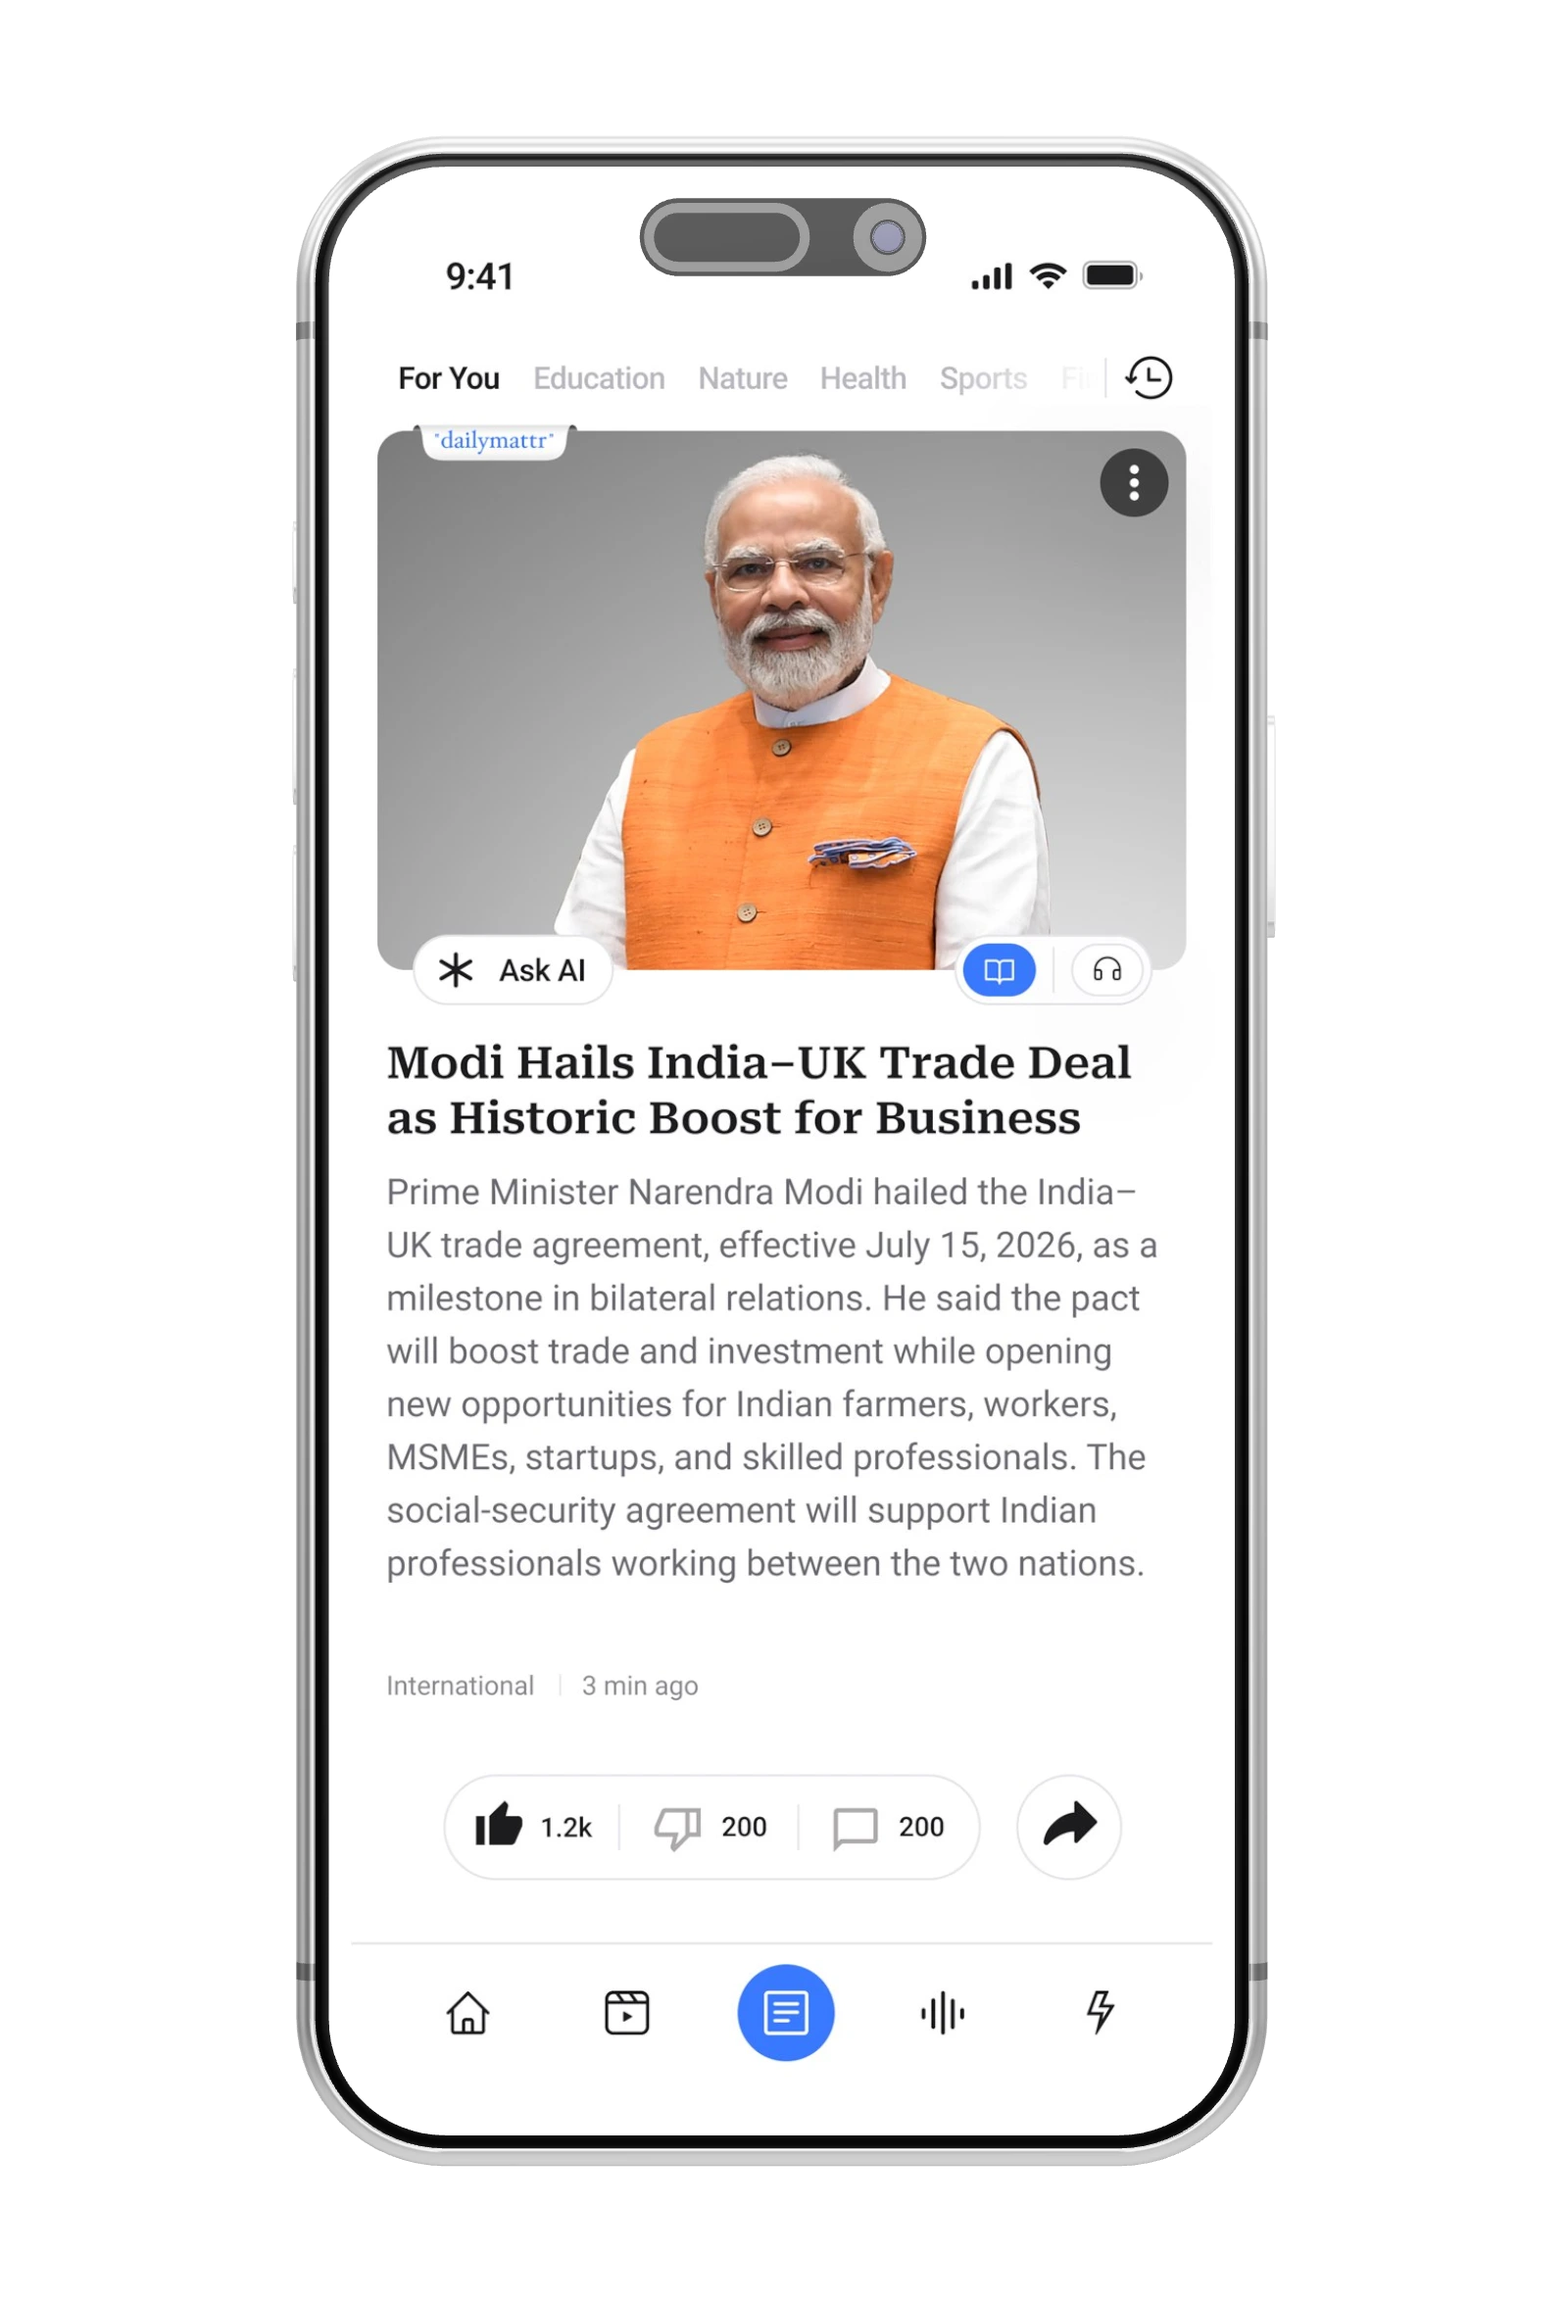
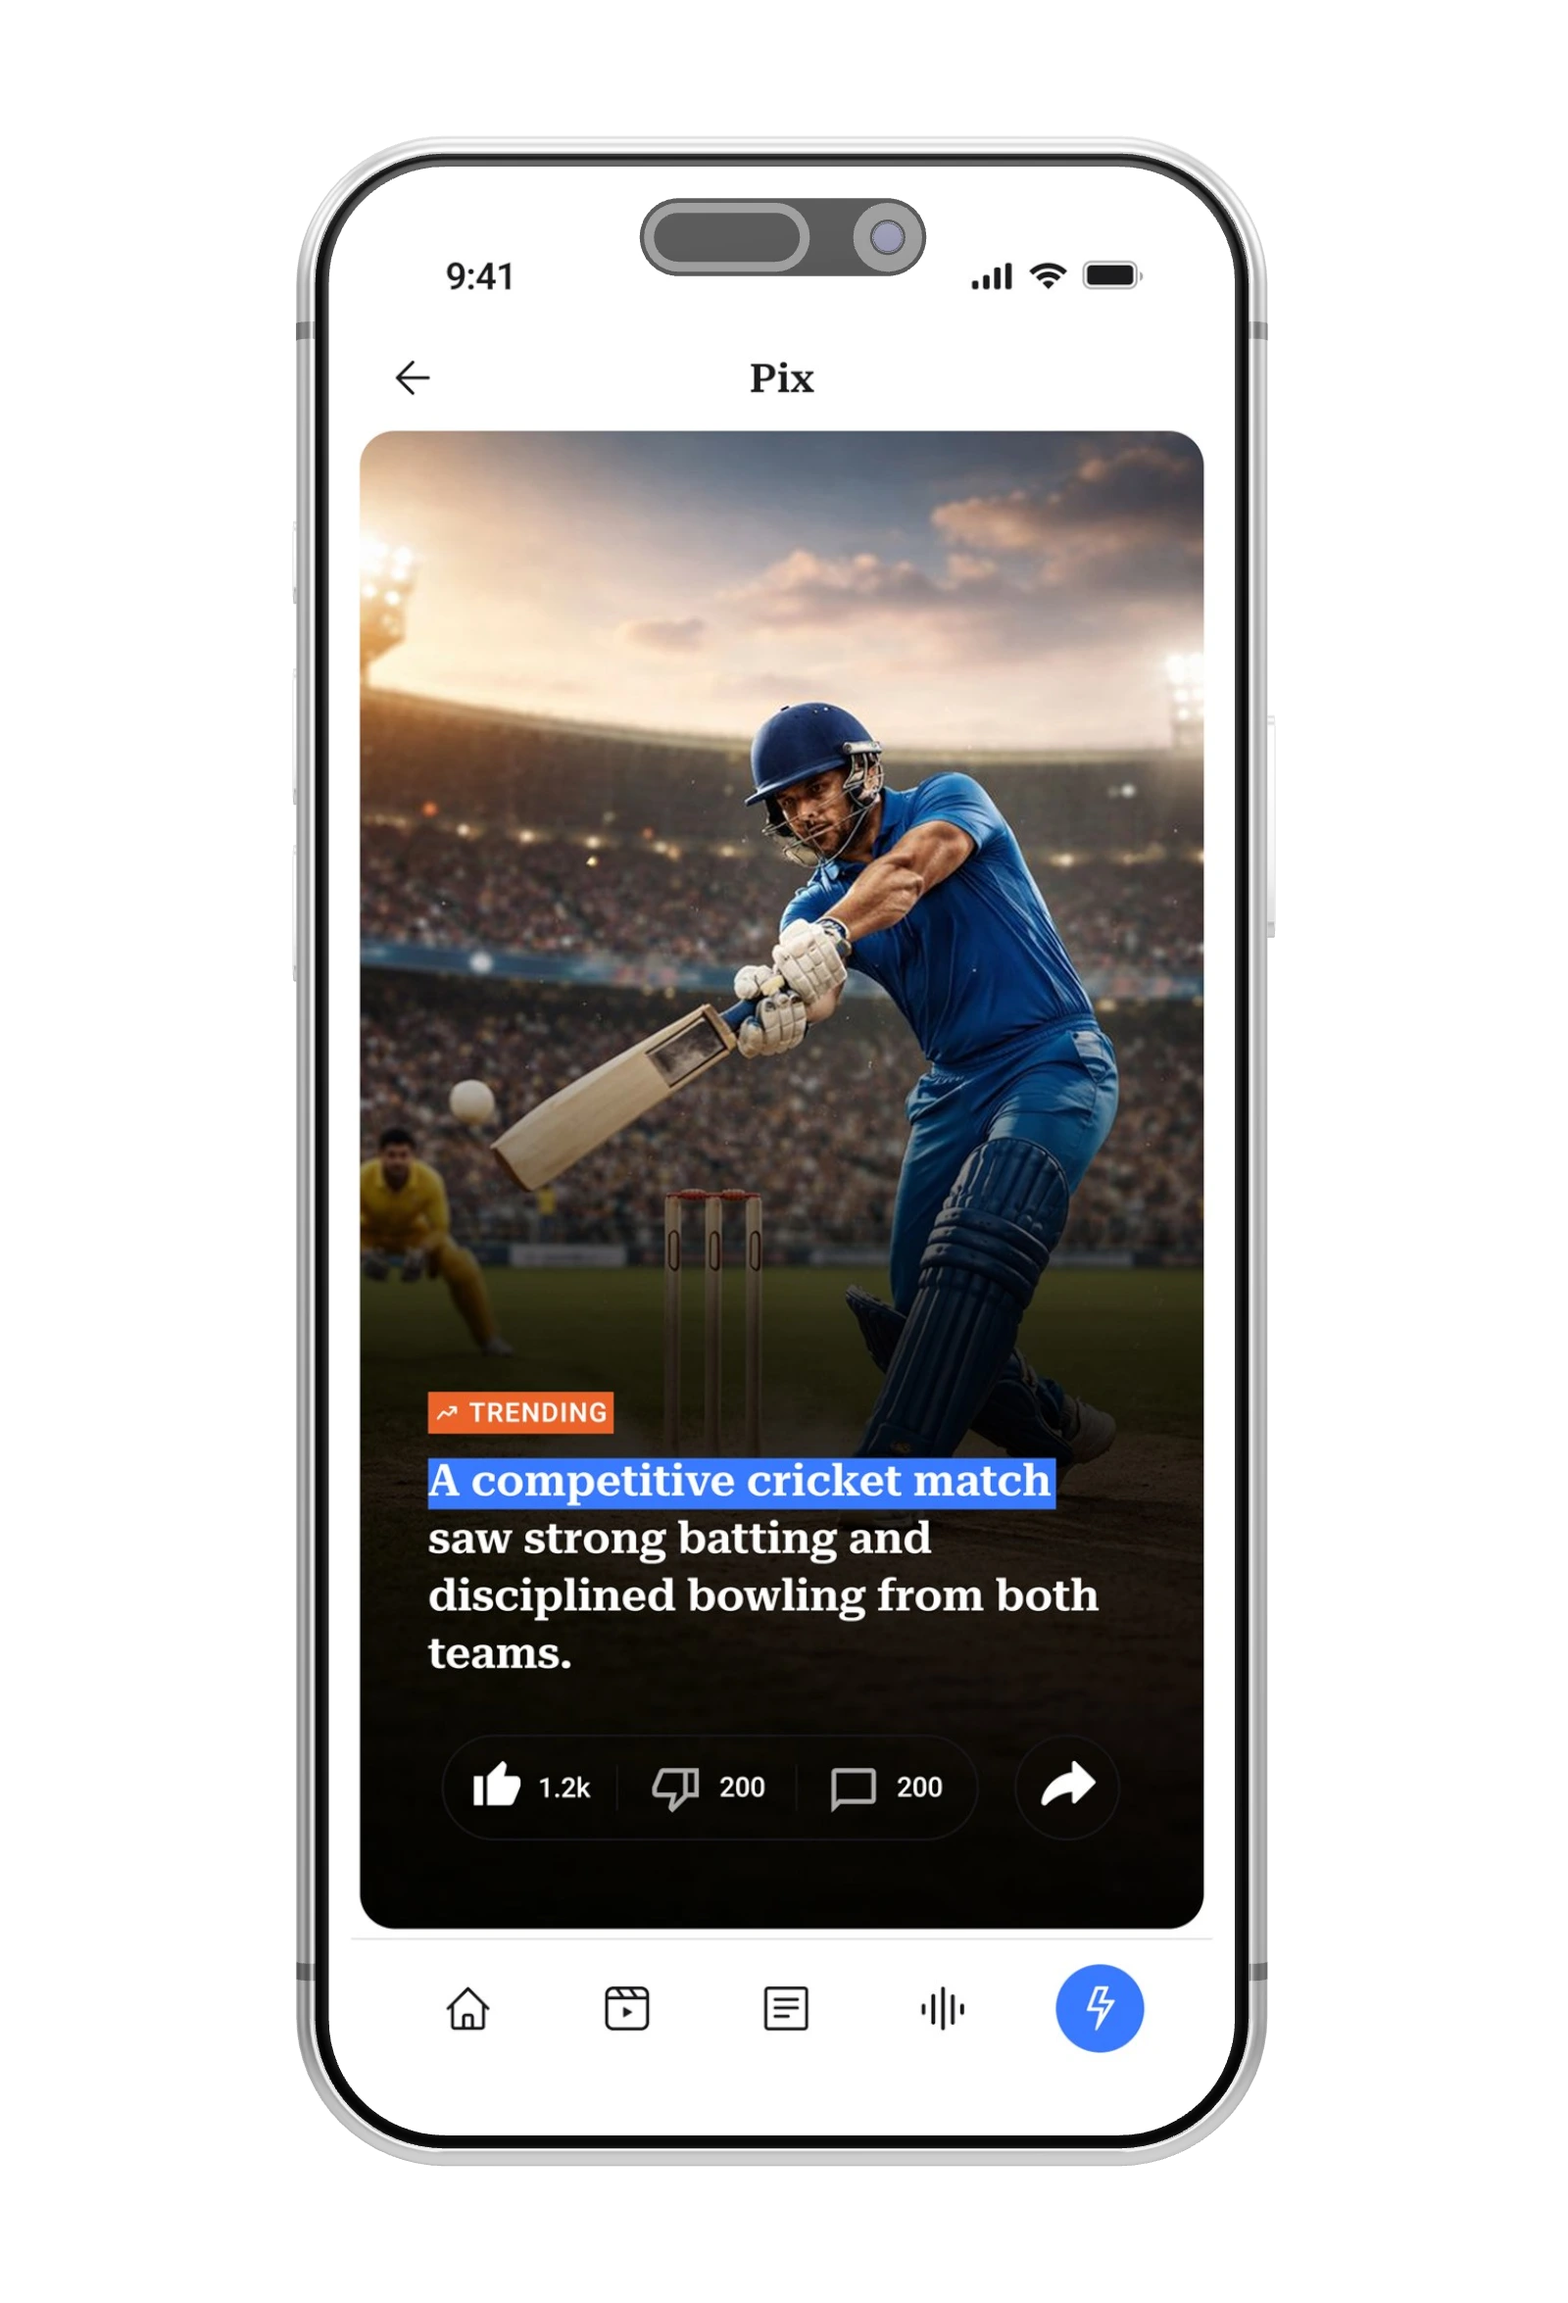
Update read preview screen to Pix and update phone sequence assets

diff --git a/index.html b/index.html
@@ -233,8 +233,8 @@
       <div class="features-mobile">
         <div class="fm-stage">
           <div class="fm-block">
-            <div class="fm-phone"><img src="/assets/screen-article.jpg?v=5" decoding="async" loading="lazy"
-                alt="Articles screen" /></div>
+            <div class="fm-phone"><img src="/assets/screen-pix.jpg?v=5" decoding="async" loading="lazy"
+                alt="Pix screen" /></div>
             <span class="fc-index">01 — READ</span>
             <h3><img class="fc-icon" src="/assets/icon-pix-lightning.png" alt="" />Pix</h3>
             <p>Get the full story in just 60 words. Understand what happened, why it matters, and what comes
@@ -375,7 +375,7 @@
       <img class="ph-frame" src="/assets/phone-frame.png" alt="" />
       <div class="phone-screen">
         <img class="fly-screen" data-screen="home" src="/assets/screen-home.jpg" alt="" loading="lazy" />
-        <img class="fly-screen" data-screen="article" src="/assets/screen-article.jpg" alt="" loading="lazy" />
+        <img class="fly-screen" data-screen="article" src="/assets/screen-pix.jpg" alt="" loading="lazy" />
         <img class="fly-screen" data-screen="qix" src="/assets/screen-qix.jpg" alt="" loading="lazy" />
         <img class="fly-screen" data-screen="trax" src="/assets/screen-trax.jpg" alt="" loading="lazy" />
         <span class="screen-glare"></span>

diff --git a/src/main.js b/src/main.js
@@ -96,7 +96,7 @@ if (CAPTURE) {
         quality: "desktop",
         screens: {
           home: "/assets/screen-home.jpg?v=5",
-          article: "/assets/screen-article.jpg?v=5",
+          article: "/assets/screen-pix.jpg?v=5",
           qix: "/assets/screen-qix.jpg?v=5",
           trax: "/assets/screen-trax.jpg?v=5",
         },
@@ -113,10 +113,10 @@ if (CAPTURE) {
     meta: { frames: 32, cols: 8, rows: 4, fw: 704, fh: 1034, backBox: { w: 800, h: 980 } },
     urls: {
       seq1: "/assets/dphone-seq1.webp",
-      seq2: "/assets/dphone-seq2.webp",
+      seq2: "/assets/dphone-seq2.webp?v=2",
       a: "/assets/dphone-a.webp",
       b: "/assets/dphone-b.webp",
-      c: "/assets/dphone-c.webp",
+      c: "/assets/dphone-c.webp?v=2",
       q: "/assets/dphone-q.webp",
       t: "/assets/dphone-t.webp",
       back: "/assets/dphone-back.webp",
